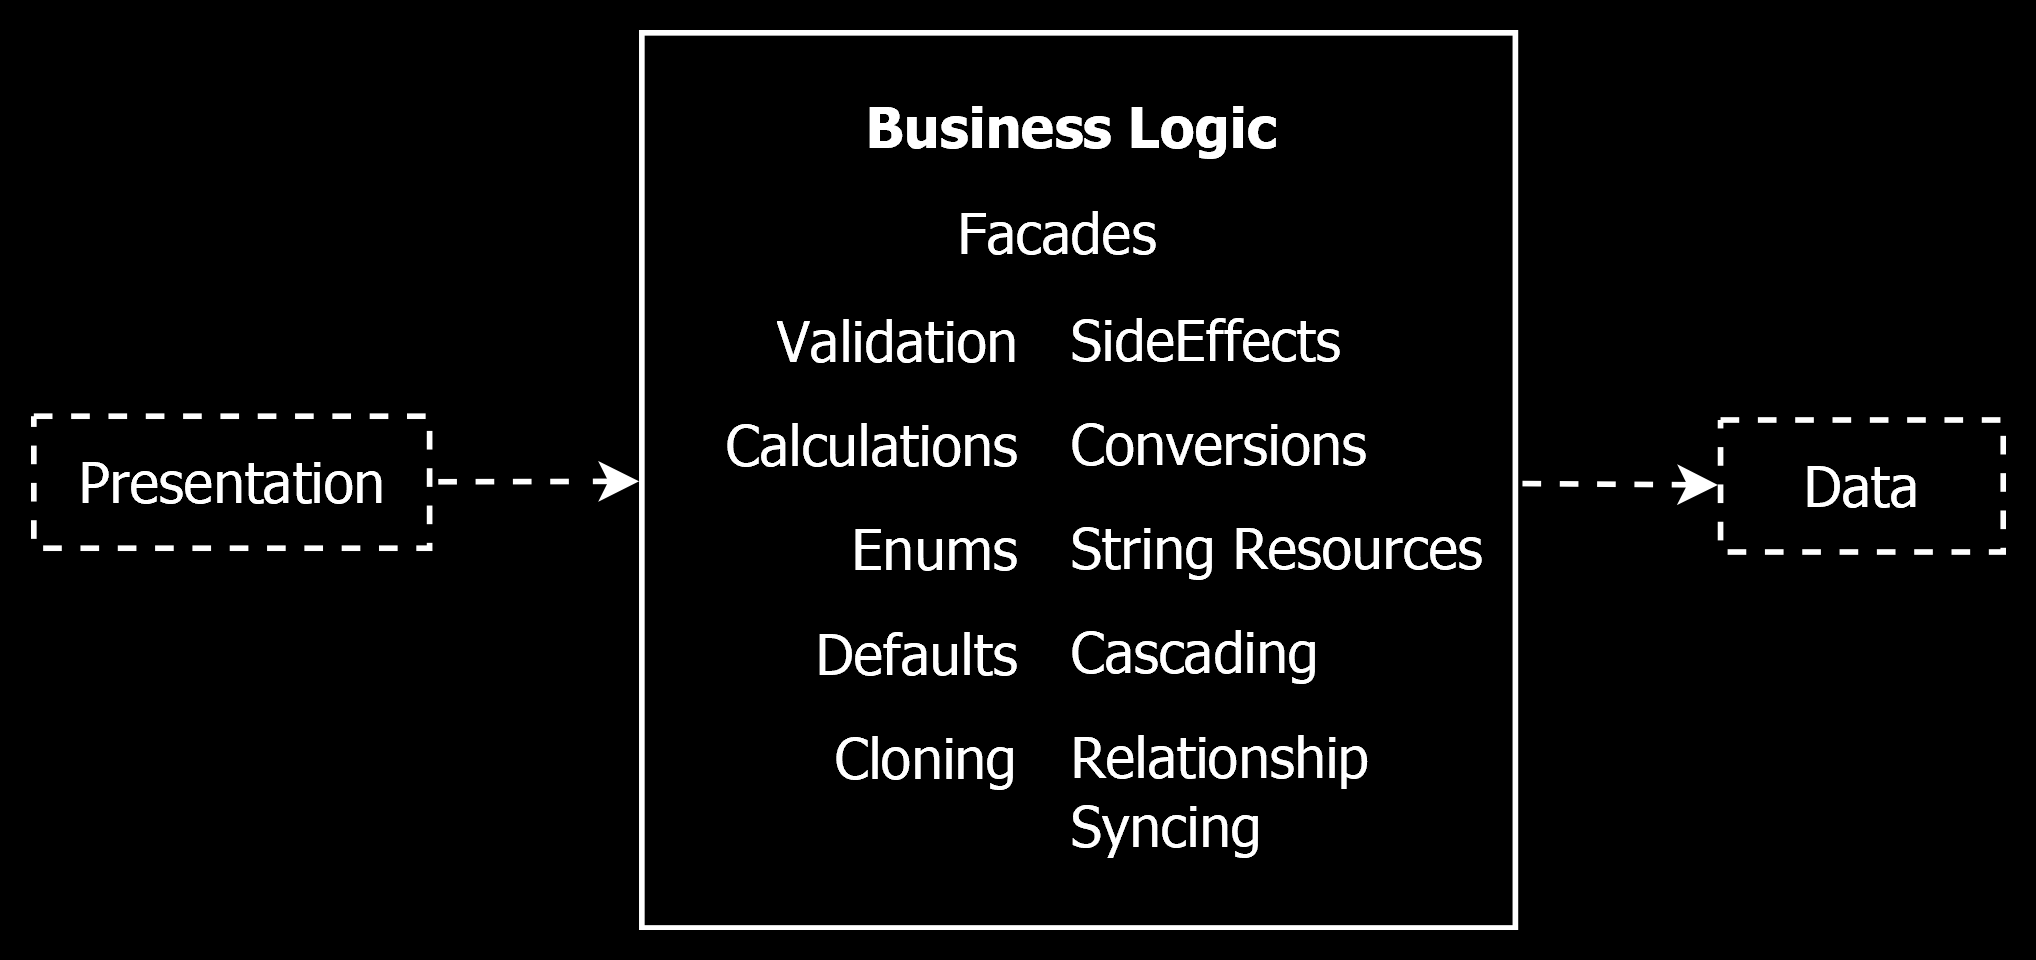
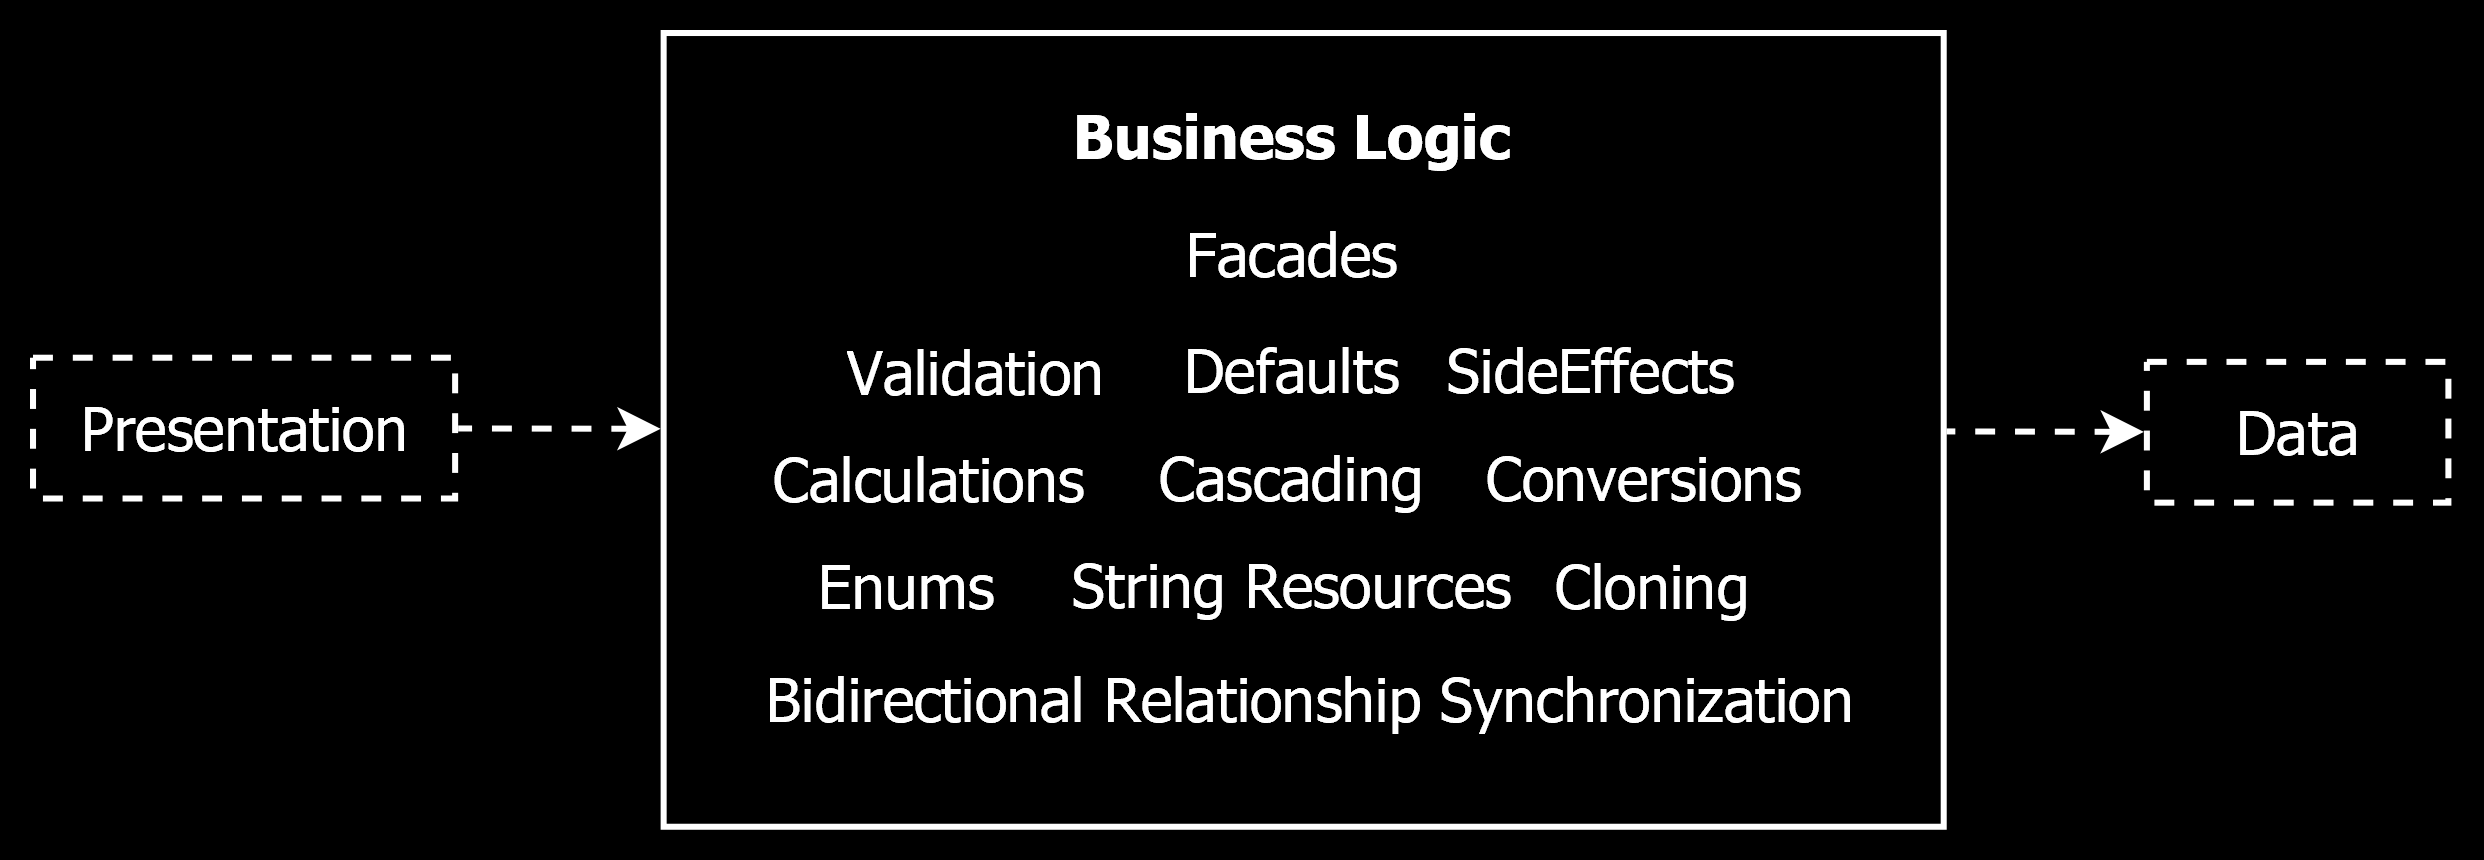
📢 Patterns: Business Logic: Working on catch phrase / image combo.

diff --git a/patterns/business-logic.md b/patterns/business-logic.md
@@ -8,7 +8,7 @@ image: "/images/business-layer.png"
 
 [back](README.md)
 
-Business logic guards the rules of a system: the invisible engine powering the software.
+[Business logic](#-patterns--business-logic) guards the rules of a system: the invisible engine powering the software. It sits between the [presentation layer](../layers.md#presentation-layer) and the [data layer](../layers.md#data-layer)
 
 <img src="../images/business-layer-horizontal.png" width="700" />
 
